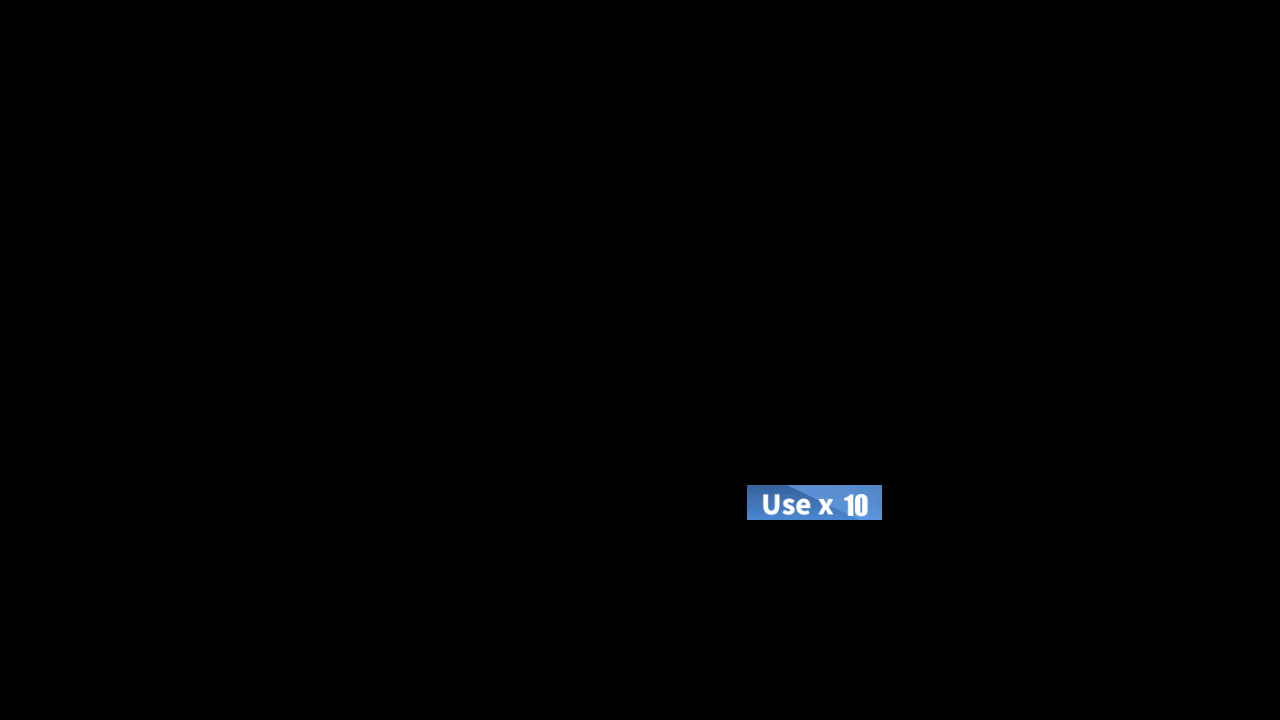
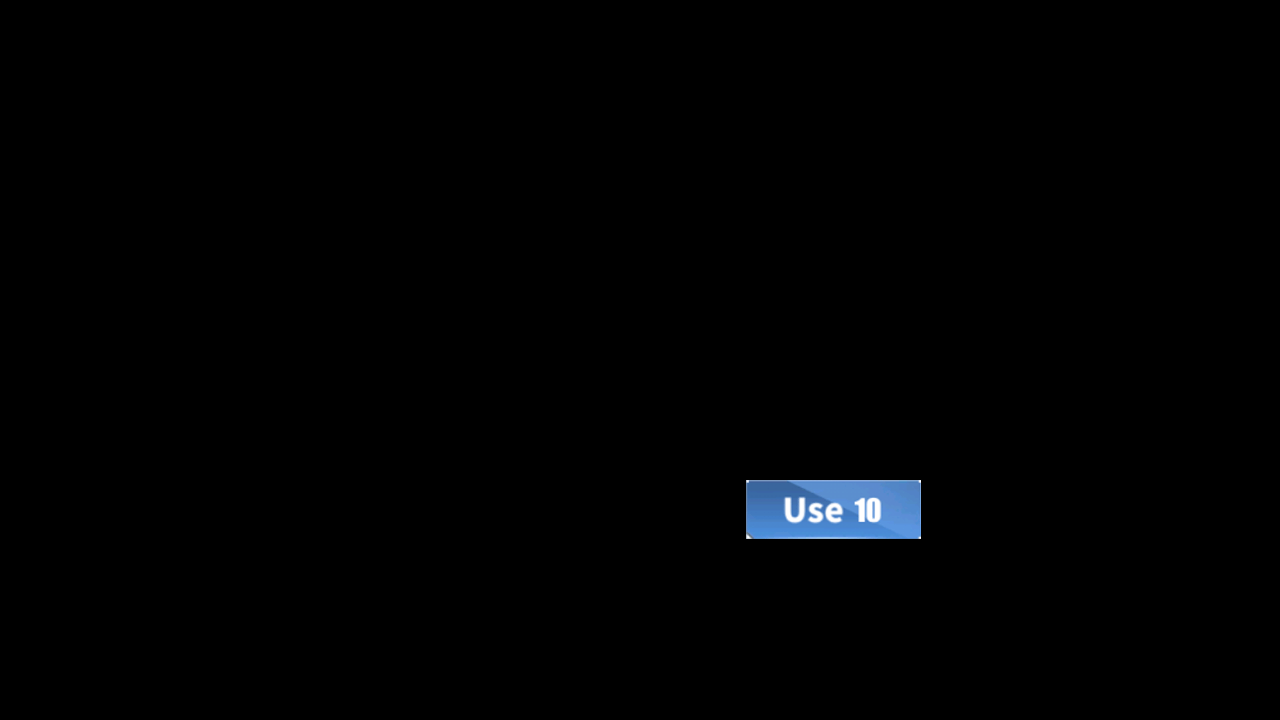
Update EN box button (#3015)
* Add files via upload

* Add files via upload

* Add files via upload

* Delete assets.py

* Add files via upload

Changed region(s): [[0.5625, 0.6417, 0.7188, 0.7639]]

diff --git a/module/storage/assets.py b/module/storage/assets.py
@@ -4,10 +4,10 @@ from module.base.template import Template
 # This file was automatically generated by dev_tools/button_extract.py.
 # Don't modify it manually.
 
-BOX_USE = Button(area={'cn': (768, 486, 834, 522), 'en': (764, 495, 810, 514), 'jp': (823, 485, 919, 520), 'tw': (768, 486, 834, 522)}, color={'cn': (141, 173, 212), 'en': (162, 187, 220), 'jp': (141, 177, 223), 'tw': (141, 173, 212)}, button={'cn': (756, 480, 916, 528), 'en': (747, 485, 882, 520), 'jp': (757, 475, 919, 533), 'tw': (756, 480, 916, 528)}, file={'cn': './assets/cn/storage/BOX_USE.png', 'en': './assets/en/storage/BOX_USE.png', 'jp': './assets/jp/storage/BOX_USE.png', 'tw': './assets/cn/storage/BOX_USE.png'})
+BOX_USE = Button(area={'cn': (768, 486, 834, 522), 'en': (784, 498, 843, 523), 'jp': (823, 485, 919, 520), 'tw': (768, 486, 834, 522)}, color={'cn': (141, 173, 212), 'en': (157, 185, 221), 'jp': (141, 177, 223), 'tw': (141, 173, 212)}, button={'cn': (756, 480, 916, 528), 'en': (746, 480, 921, 539), 'jp': (757, 475, 919, 533), 'tw': (756, 480, 916, 528)}, file={'cn': './assets/cn/storage/BOX_USE.png', 'en': './assets/en/storage/BOX_USE.png', 'jp': './assets/jp/storage/BOX_USE.png', 'tw': './assets/cn/storage/BOX_USE.png'})
 DISASSEMBLE = Button(area={'cn': (357, 666, 456, 690), 'en': (346, 668, 467, 684), 'jp': (357, 663, 456, 691), 'tw': (357, 666, 456, 690)}, color={'cn': (191, 192, 192), 'en': (193, 193, 194), 'jp': (169, 170, 170), 'tw': (191, 192, 192)}, button={'cn': (348, 661, 466, 696), 'en': (346, 659, 467, 698), 'jp': (349, 657, 468, 700), 'tw': (348, 661, 466, 696)}, file={'cn': './assets/cn/storage/DISASSEMBLE.png', 'en': './assets/en/storage/DISASSEMBLE.png', 'jp': './assets/jp/storage/DISASSEMBLE.png', 'tw': './assets/cn/storage/DISASSEMBLE.png'})
-DISASSEMBLE_CANCEL = Button(area={'cn': (900, 659, 973, 690), 'en': (881, 659, 993, 684), 'jp': (899, 658, 971, 691), 'tw': (900, 659, 973, 690)}, color={'cn': (186, 186, 187), 'en': (192, 192, 193), 'jp': (167, 167, 168), 'tw': (186, 186, 187)}, button={'cn': (863, 649, 1015, 700), 'en': (854, 649, 1021, 699), 'jp': (860, 647, 1021, 704), 'tw': (863, 649, 1015, 700)}, file={'cn': './assets/cn/storage/DISASSEMBLE_CANCEL.png', 'en': './assets/en/storage/DISASSEMBLE_CANCEL.png', 'jp': './assets/jp/storage/DISASSEMBLE_CANCEL.png', 'tw': './assets/cn/storage/DISASSEMBLE_CANCEL.png'})
-DISASSEMBLE_CONFIRM = Button(area={'cn': (1108, 657, 1183, 690), 'en': (1063, 658, 1230, 681), 'jp': (1108, 657, 1185, 691), 'tw': (1108, 657, 1183, 690)}, color={'cn': (202, 149, 143), 'en': (204, 152, 145), 'jp': (198, 134, 126), 'tw': (202, 149, 143)}, button={'cn': (1067, 650, 1225, 698), 'en': (1063, 651, 1230, 697), 'jp': (1070, 645, 1230, 704), 'tw': (1067, 650, 1225, 698)}, file={'cn': './assets/cn/storage/DISASSEMBLE_CONFIRM.png', 'en': './assets/en/storage/DISASSEMBLE_CONFIRM.png', 'jp': './assets/jp/storage/DISASSEMBLE_CONFIRM.png', 'tw': './assets/cn/storage/DISASSEMBLE_CONFIRM.png'})
+DISASSEMBLE_CANCEL = Button(area={'cn': (900, 659, 973, 690), 'en': (894, 665, 979, 684), 'jp': (899, 658, 971, 691), 'tw': (900, 659, 973, 690)}, color={'cn': (186, 186, 187), 'en': (192, 193, 193), 'jp': (167, 167, 168), 'tw': (186, 186, 187)}, button={'cn': (863, 649, 1015, 700), 'en': (868, 653, 1010, 695), 'jp': (860, 647, 1021, 704), 'tw': (863, 649, 1015, 700)}, file={'cn': './assets/cn/storage/DISASSEMBLE_CANCEL.png', 'en': './assets/en/storage/DISASSEMBLE_CANCEL.png', 'jp': './assets/jp/storage/DISASSEMBLE_CANCEL.png', 'tw': './assets/cn/storage/DISASSEMBLE_CANCEL.png'})
+DISASSEMBLE_CONFIRM = Button(area={'cn': (1108, 657, 1183, 690), 'en': (1065, 663, 1227, 684), 'jp': (1108, 657, 1185, 691), 'tw': (1108, 657, 1183, 690)}, color={'cn': (202, 149, 143), 'en': (209, 160, 154), 'jp': (198, 134, 126), 'tw': (202, 149, 143)}, button={'cn': (1067, 650, 1225, 698), 'en': (1065, 653, 1227, 695), 'jp': (1070, 645, 1230, 704), 'tw': (1067, 650, 1225, 698)}, file={'cn': './assets/cn/storage/DISASSEMBLE_CONFIRM.png', 'en': './assets/en/storage/DISASSEMBLE_CONFIRM.png', 'jp': './assets/jp/storage/DISASSEMBLE_CONFIRM.png', 'tw': './assets/cn/storage/DISASSEMBLE_CONFIRM.png'})
 DISASSEMBLE_COUNT_OCR = Button(area={'cn': (612, 662, 687, 695), 'en': (625, 664, 685, 694), 'jp': (612, 662, 687, 695), 'tw': (612, 662, 687, 695)}, color={'cn': (60, 63, 81), 'en': (72, 74, 85), 'jp': (60, 63, 81), 'tw': (60, 63, 81)}, button={'cn': (612, 662, 687, 695), 'en': (625, 664, 685, 694), 'jp': (612, 662, 687, 695), 'tw': (612, 662, 687, 695)}, file={'cn': './assets/cn/storage/DISASSEMBLE_COUNT_OCR.png', 'en': './assets/en/storage/DISASSEMBLE_COUNT_OCR.png', 'jp': './assets/jp/storage/DISASSEMBLE_COUNT_OCR.png', 'tw': './assets/tw/storage/DISASSEMBLE_COUNT_OCR.png'})
 DISASSEMBLE_POPUP_CONFIRM = Button(area={'cn': (746, 564, 815, 594), 'en': (717, 568, 841, 590), 'jp': (743, 564, 818, 596), 'tw': (746, 564, 815, 594)}, color={'cn': (148, 179, 219), 'en': (160, 187, 223), 'jp': (127, 166, 214), 'tw': (148, 179, 219)}, button={'cn': (707, 558, 854, 603), 'en': (708, 558, 851, 601), 'jp': (706, 553, 859, 608), 'tw': (707, 558, 854, 603)}, file={'cn': './assets/cn/storage/DISASSEMBLE_POPUP_CONFIRM.png', 'en': './assets/en/storage/DISASSEMBLE_POPUP_CONFIRM.png', 'jp': './assets/jp/storage/DISASSEMBLE_POPUP_CONFIRM.png', 'tw': './assets/cn/storage/DISASSEMBLE_POPUP_CONFIRM.png'})
 EQUIPMENT_EMPTY = Button(area={'cn': (1127, 353, 1155, 395), 'en': (1127, 353, 1155, 395), 'jp': (1127, 353, 1155, 395), 'tw': (1127, 353, 1155, 395)}, color={'cn': (95, 74, 86), 'en': (95, 74, 86), 'jp': (95, 74, 86), 'tw': (95, 74, 86)}, button={'cn': (1127, 353, 1155, 395), 'en': (1127, 353, 1155, 395), 'jp': (1127, 353, 1155, 395), 'tw': (1127, 353, 1155, 395)}, file={'cn': './assets/cn/storage/EQUIPMENT_EMPTY.png', 'en': './assets/en/storage/EQUIPMENT_EMPTY.png', 'jp': './assets/jp/storage/EQUIPMENT_EMPTY.png', 'tw': './assets/tw/storage/EQUIPMENT_EMPTY.png'})
